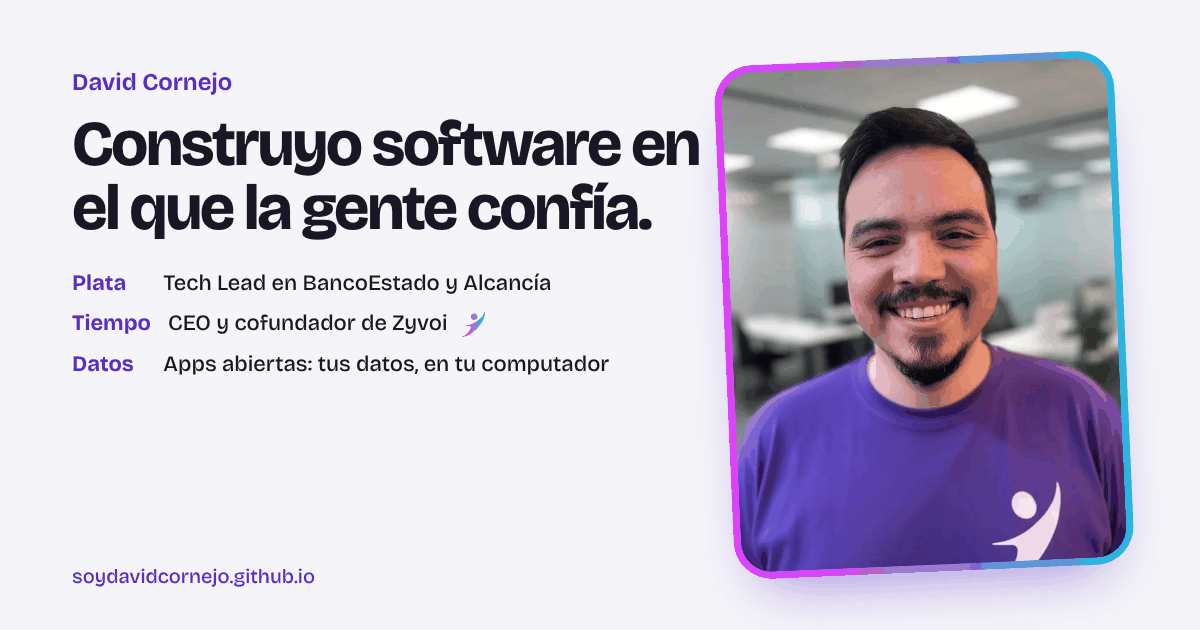
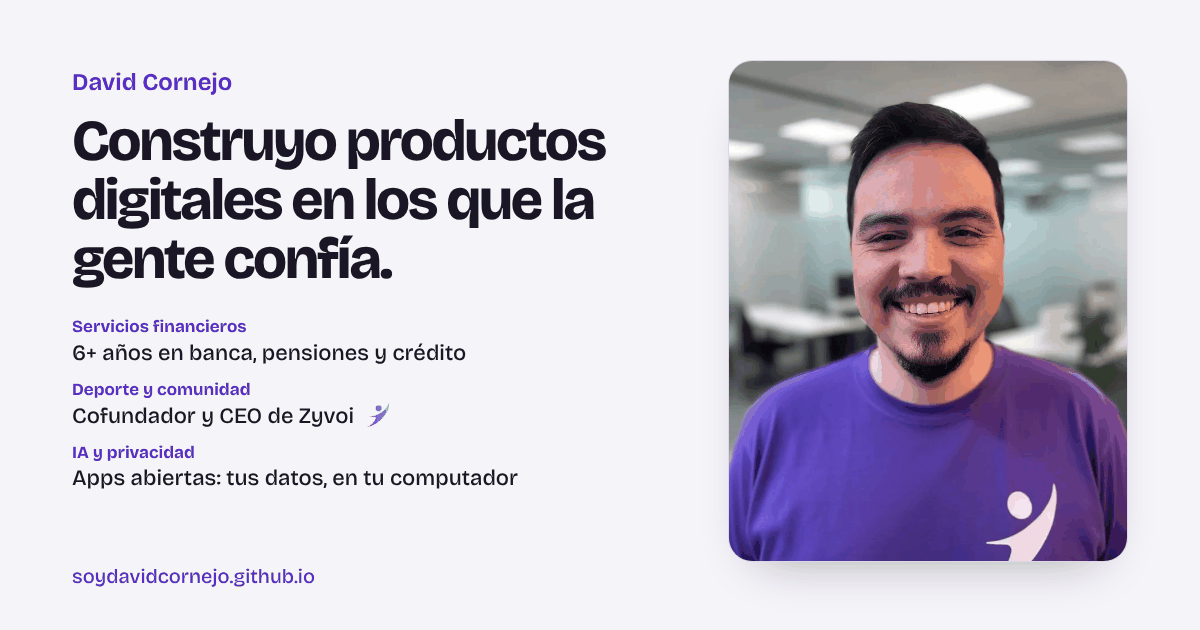
Página: productos en los que la gente confía, servicios financieros y logros por proyecto
Claude-Session: https://claude.ai/code/session_015WKzn5ezHz85iJiog5YX6w

Changed region(s): [[0.0617, 0.0603, 0.9558, 0.9651]]

diff --git a/index.html b/index.html
@@ -13,18 +13,18 @@
 <meta name="theme-color" content="#13111a" media="(prefers-color-scheme: dark)">
 <meta property="og:type" content="profile">
 <meta property="og:title" content="David Cornejo — Tech Lead y CEO de Zyvoi | AI engineering en Chile">
-<meta property="og:description" content="Construyo software en el que la gente confía: con su plata, su tiempo y sus datos. Tech Lead en BancoEstado, CEO y cofundador de Zyvoi y creador de cinco apps abiertas.">
+<meta property="og:description" content="Construyo productos digitales en los que la gente confía: más de 6 años en servicios financieros, cofundador y CEO de Zyvoi y creador de apps abiertas que dejan los datos de cada persona en su computador.">
 <meta property="og:url" content="https://soydavidcornejo.github.io/">
 <meta property="og:image" content="https://soydavidcornejo.github.io/img/compartir.png">
 <meta property="og:image:width" content="1200"><meta property="og:image:height" content="630">
-<meta property="og:image:alt" content="David Cornejo: construyo software en el que la gente confía, con su plata, su tiempo y sus datos">
+<meta property="og:image:alt" content="David Cornejo: construyo productos digitales en los que la gente confía">
 <meta property="og:locale" content="es_CL"><meta property="og:locale:alternate" content="en_US">
 <meta name="twitter:card" content="summary_large_image">
 <script type="application/ld+json">
 {"@context":"https://schema.org","@type":"Person","@id":"https://soydavidcornejo.github.io/#david",
  "name":"David Cornejo","givenName":"David","familyName":"Cornejo",
  "url":"https://soydavidcornejo.github.io/","image":"https://soydavidcornejo.github.io/img/david.jpg",
- "description":"Tech Lead y CEO y cofundador de Zyvoi. AI engineering en Chile: construyo software en el que la gente confía, con su plata, su tiempo y sus datos.",
+ "description":"Tech Lead y CEO y cofundador de Zyvoi. AI engineering en Chile: construyo productos digitales en los que la gente confía.",
  "jobTitle":["Tech Lead","CEO y cofundador de Zyvoi"],
  "worksFor":[{"@type":"Organization","name":"Zyvoi","url":"https://zyvoi.com","logo":"https://soydavidcornejo.github.io/img/zyvoi-logo.webp","founder":{"@id":"https://soydavidcornejo.github.io/#david"}},{"@type":"Organization","name":"BancoEstado"}],
  "alumniOf":{"@type":"CollegeOrUniversity","name":"INACAP"},
@@ -93,13 +93,14 @@ nav.secciones a:hover{color:var(--tinta)}
 @media (max-width:720px){.portada{grid-template-columns:minmax(0,1fr);gap:40px;padding:24px 0 40px}.retrato{order:-1}}
 .nombre{font:700 clamp(22px,2.2vw,26px)/1.1 var(--letra);letter-spacing:-.02em;margin:0}
 .ubicacion{margin:6px 0 28px;color:var(--suave);font-size:15.5px}
-h1.tesis{font:700 clamp(38px,5vw,64px)/1.04 var(--letra);letter-spacing:-.035em;margin:0 0 32px;max-width:14em;text-wrap:balance}
+h1.tesis{font:700 clamp(40px,5.4vw,70px)/1.03 var(--letra);letter-spacing:-.035em;margin:0 0 32px;max-width:12em;text-wrap:balance}
 .pruebas{margin:0 0 32px;max-width:38em}
-.pruebas div{display:grid;grid-template-columns:92px minmax(0,1fr);gap:4px 18px;padding:13px 0;border-top:1px solid var(--linea)}
+.pruebas div{display:grid;grid-template-columns:190px minmax(0,1fr);gap:4px 20px;padding:14px 0;border-top:1px solid var(--linea)}
 .pruebas div:last-child{border-bottom:1px solid var(--linea)}
 .pruebas dt{font:700 17px/1.45 var(--letra);color:var(--acento)}
 .pruebas dd{margin:0;font-size:17px;line-height:1.45}
-@media (max-width:480px){.pruebas div{grid-template-columns:70px minmax(0,1fr);gap:4px 12px}.pruebas dt,.pruebas dd{font-size:16px}}
+@media (max-width:900px){.pruebas div{grid-template-columns:minmax(0,1fr);gap:2px}}
+@media (max-width:480px){.pruebas dt,.pruebas dd{font-size:16px}}
 .bajada{font-size:clamp(17px,1.5vw,19px);line-height:1.6;color:var(--suave);max-width:36em;margin:0 0 30px}
 .acciones{display:flex;flex-wrap:wrap;gap:10px}
 .boton{display:inline-flex;align-items:center;gap:9px;min-height:48px;padding:0 22px;border-radius:999px;font:600 16px/1 var(--letra);text-decoration:none;border:1.5px solid var(--tinta);color:var(--tinta);background:transparent;cursor:pointer;transition:background-color .15s,color .15s,transform .12s,filter .15s}
@@ -118,6 +119,7 @@ h1.tesis{font:700 clamp(38px,5vw,64px)/1.04 var(--letra);letter-spacing:-.035em;
 
 /* He trabajado en (solo texto, sin logos de terceros) */
 .trabaje{margin:-40px 0 72px;display:flex;flex-wrap:wrap;align-items:baseline;gap:6px 26px;color:var(--suave);font-size:14.5px}
+.trabaje small{font-size:13px;font-weight:500;color:var(--suave);letter-spacing:0}
 .trabaje .empresas{font:650 17px/1.2 var(--letra);letter-spacing:-.01em;color:color-mix(in srgb,var(--tinta) 72%,var(--fondo))}
 
 /* Cómo es trabajar conmigo */
@@ -195,7 +197,7 @@ h3{text-wrap:balance}
 .zy-recintos p{margin:0;color:rgba(255,255,255,.76);font-size:15.5px}
 .zy-enlace{display:inline-block;margin-top:8px;font-weight:600;font-size:15px;color:#fff;text-decoration-color:rgba(255,255,255,.5)}
 .zy-enlace:hover{color:#fff;text-decoration-color:#fff}
-.zy-cifras{list-style:none;margin:0 0 28px;padding:18px 0 0;border-top:1px solid rgba(255,255,255,.18);display:grid;grid-template-columns:repeat(4,minmax(0,1fr));gap:16px 20px;max-width:40em}
+.zy-cifras{list-style:none;margin:0 0 28px;padding:18px 0 0;border-top:1px solid rgba(255,255,255,.18);display:grid;grid-template-columns:repeat(3,minmax(0,1fr));gap:18px 24px;max-width:36em}
 @media (max-width:560px){.zy-cifras{grid-template-columns:repeat(2,minmax(0,1fr))}}
 .zy-cifras li{display:flex;flex-direction:column;gap:3px;min-width:0}
 .zy-cifras b{font:700 18px/1.15 var(--letra);letter-spacing:-.015em}
@@ -437,11 +439,11 @@ footer p{margin:0}
     <div>
       <p class="nombre">David Cornejo</p>
       <p class="ubicacion" data-t="ubicacion">AI engineering en Santiago de Chile</p>
-      <h1 class="tesis" data-t="tesis">Construyo software en el que la gente confía: con su plata, su tiempo y sus datos.</h1>
+      <h1 class="tesis" data-t="tesis">Construyo productos digitales en los que la gente confía.</h1>
       <dl class="pruebas">
-        <div><dt data-t="pr_plata">Plata</dt><dd data-t="pr_plata_p">Tech Lead en BancoEstado, y creador de Alcancía para ordenar las finanzas de la casa.</dd></div>
-        <div><dt data-t="pr_tiempo">Tiempo</dt><dd data-t="pr_tiempo_p">CEO y cofundador de Zyvoi: que la gente juegue más y coordine menos.</dd></div>
-        <div><dt data-t="pr_datos">Datos</dt><dd data-t="pr_datos_p">Apps abiertas donde tus datos no salen de tu computador.</dd></div>
+        <div><dt data-t="pi1">Servicios financieros</dt><dd data-t="pi1p">Más de 6 años construyendo software para banca, pensiones y crédito: BancoEstado, AFP (en SONDA) y financiamiento automotriz en Tanner (vía Amaris Consulting).</dd></div>
+        <div><dt data-t="pi2">Deporte y comunidad</dt><dd data-t="pi2p">Cofundador y CEO de Zyvoi: que más gente juegue y coordine menos.</dd></div>
+        <div><dt data-t="pi3">IA y privacidad</dt><dd data-t="pi3p">Apps abiertas que usan la IA de cada persona y dejan sus datos en su computador.</dd></div>
       </dl>
       <div class="acciones">
         <a class="boton principal" href="#contacto" data-t="cta_hablar">Conversemos</a>
@@ -455,12 +457,12 @@ footer p{margin:0}
           </figure>
   </div>
   <ul class="hechos" aria-label="Hechos" data-t-aria="hechos">
-    <li><span class="valor" data-t="hc1v">12+ años</span><span class="dato" data-t="hc1p">construyendo y operando software</span></li>
-    <li><a class="valor" href="#zyvoi" data-t="hc2v">+200 jugadores</a><span class="dato" data-t="hc2p">registrados en Zyvoi</span></li>
-    <li><a class="valor" href="#zyvoi" data-t="hc3v">222 partidos jugados</a><span class="dato" data-t="hc3p">organizados con Zyvoi</span></li>
-    <li><a class="valor" href="https://github.com/soydavidcornejo" target="_blank" rel="noopener" data-t="hc4v">5 apps en 5 días</a><span class="dato" data-t="hc4p">abiertas, publicadas del 22 al 26 de octubre de 2026</span></li>
+    <li><span class="valor" data-t="hc1v">12+ años</span><span class="dato" data-t="hc1p">en tecnología</span></li>
+    <li><span class="valor" data-t="hc2v">6+ años</span><span class="dato" data-t="hc2p">en servicios financieros</span></li>
+    <li><span class="valor">Tech Lead</span><span class="dato" data-t="hc3p">de equipos de desarrollo</span></li>
+    <li><a class="valor" href="#zyvoi" data-t="hc4v">Cofundador y CEO</a><span class="dato" data-t="hc4p">de Zyvoi</span></li>
   </ul>
-  <p class="trabaje"><span data-t="trabaje">He trabajado en</span> <span class="empresas">BancoEstado</span> <span class="empresas">Vigalab · Codelco</span> <span class="empresas">SONDA</span> <span class="empresas">Amaris Consulting</span></p>
+  <p class="trabaje"><span data-t="trabaje">He trabajado en</span> <span class="empresas">BancoEstado</span> <span class="empresas">Codelco <small><span data-t="via">vía</span> Vigalab</small></span> <span class="empresas">Tanner <small><span data-t="via">vía</span> Amaris Consulting</small></span> <span class="empresas">SONDA</span></p>
 </div>
 
 <section id="ayuda" class="raya">
@@ -498,6 +500,8 @@ footer p{margin:0}
       <h2 id="zy-titulo" data-t="zy_h">Para que más gente juegue y se conozca a través del deporte.</h2>
       <p class="zy-bajada" data-t="z_p">Una app chilena para encontrar partidos, armar equipos y reservar canchas: fútbol, pádel, tenis, básquetbol y más.</p>
       <ul class="zy-cifras">
+        <li><b data-t="zc5v">+200</b><span data-t="zc5p">jugadores registrados</span></li>
+        <li><b>222</b><span data-t="zc6p">partidos jugados</span></li>
         <li><b data-t="zc1">Marzo 2026</b><span data-t="zc1p">lanzada en Chile, en iOS y Android</span></li>
         <li><b data-t="zc2">4 deportes</b><span data-t="zc2p">en 7 regiones de Chile</span></li>
         <li><b>Google for Startups</b><span data-t="zc3p">parte del programa Cloud</span></li>
@@ -561,7 +565,7 @@ footer p{margin:0}
       <div>
         <ol class="pasos">
           <li><h3 data-t="ps1">Parto de un problema real</h3><p data-t="ps1p">En la casa, en el trabajo o en la cancha: algo que a mí o a alguien cercano de verdad le hace falta.</p></li>
-          <li><h3 data-t="ps2">Lo construyo rápido y lo publico abierto</h3><p data-t="ps2p">Con agentes de IA llego en semanas a una versión que se puede usar, y la publico como código abierto.</p></li>
+          <li><h3 data-t="ps2">Lo construyo rápido y lo publico abierto</h3><p data-t="ps2p">Con agentes de IA llego rápido a una versión que se puede usar, con pruebas automáticas, y la publico como código abierto.</p></li>
           <li><h3 data-t="ps3">La gente lo usa, lo mejora y me dice qué falta</h3><p data-t="ps3p">Cada persona que lo usa lo pone a prueba, propone mejoras y muestra lo que todavía no resuelve.</p></li>
           <li><h3 data-t="ps4">Lo aprendido se aplica a escala</h3><p data-t="ps4p">Harness engineering, MCP y producto llegan a Zyvoi y a mi trabajo como Tech Lead, y eso revela nuevos problemas reales.</p></li>
         </ol>
@@ -628,7 +632,7 @@ footer p{margin:0}
   <div class="envoltura">
     <div class="cabeza">
       <h2 data-t="h_proy">Proyectos abiertos</h2>
-      <p data-t="p_proy">Herramientas que me hacían falta a mí y a mi familia. Las publico para que cualquiera las use, las revise y las mejore.</p>
+      <p data-t="p_proy">Cinco apps de código abierto para escritorio, con pruebas automáticas, revisión de privacidad en cada cambio y guías para agentes de IA.</p>
       <ul class="principios">
         <li data-t="pr_1">Gratis y sin cuentas</li><li data-t="pr_3">Tu propia IA</li><li data-t="pr_4">Español e inglés</li>
       </ul>
@@ -685,7 +689,7 @@ footer p{margin:0}
     </div>
     <ul class="modo">
       <li><h3 data-t="mo1">Primero entiendo el problema de negocio, después elijo la tecnología.</h3><p data-t="mo1p">Defino qué tiene que cambiar para el usuario y para el negocio; el stack se elige al servicio de eso.</p></li>
-      <li><h3 data-t="mo2">Entrego algo usable en días, no en meses.</h3><p data-t="mo2p">Versiones cortas que se pueden probar con usuarios reales desde el inicio.</p><a class="enlace-prueba" href="#proyectos" data-t="mo2e">Prueba: cinco apps publicadas del 22 al 26 de octubre</a></li>
+      <li><h3 data-t="mo2">Entrego temprano y en ciclos cortos.</h3><p data-t="mo2p">Versiones que se pueden probar con usuarios reales desde el inicio y que mejoran en cada ciclo.</p><a class="enlace-prueba" href="#proyectos" data-t="mo2e">Prueba: las versiones publicadas de las apps abiertas</a></li>
       <li><h3 data-t="mo3">Documento para que el equipo no dependa de mí.</h3><p data-t="mo3p">Cada proyecto tiene una guía única con reglas, arquitectura y cómo probar cada cambio.</p><span class="enlace-prueba"><span data-t="prueba">Prueba:</span> <a href="https://github.com/alcancia-app/alcancia/blob/main/AGENTS.md" target="_blank" rel="noopener">AGENTS.md · Alcancía</a>, <a href="https://github.com/minuta-app/minuta/blob/main/AGENTS.md" target="_blank" rel="noopener">AGENTS.md · Minuta</a></span></li>
       <li><h3 data-t="mo4">Seguridad y privacidad desde el día uno.</h3><p data-t="mo4p">Mínimo privilegio, secretos en el Llavero y agentes que revisan privacidad antes de cada cambio.</p><a class="enlace-prueba" href="https://github.com/alcancia-app/alcancia/tree/main/.claude/agents" target="_blank" rel="noopener" data-t="mo4e">Prueba: los agentes revisores de Alcancía</a></li>
     </ul>
@@ -703,7 +707,9 @@ footer p{margin:0}
       <li class="actual"><span class="cuando" data-t="t_be">2022 – hoy</span><div><h3>Tech Lead <span>· BancoEstado</span></h3><p data-t="t_be_p">Llegué a liderar un equipo de 3 desarrolladores.</p><p class="stack" data-t="t_be_stack">AWS, Salesforce, Node.js, NestJS, Next.js y más</p></div></li>
       <li><span class="cuando">2020 – 2021</span><div><h3>Tech Lead <span>· Vigalab</span></h3><p data-t="t_vi_p">Lideré CoWatch para Codelco: trazabilidad de contactos estrechos con IoT durante el COVID-19.</p>
         <p class="stack" data-sin-traducir>IoT, AWS</p></div></li>
-      <li><span class="cuando">2013 – 2020</span><div><h3 data-t="t_antes">Soporte, jefatura de TI y desarrollo full stack <span>· Adexus, Comercial IP, Incobech, Qanalytics, SONDA y Amaris (y Integ, 2022)</span></h3></div></li>
+      <li><span class="cuando">2019 – 2020</span><div><h3>Full Stack Developer <span>· Amaris Consulting</span></h3><p data-t="t_am_p">En Tanner: financiamiento automotriz.</p></div></li>
+      <li><span class="cuando">2018 – 2019</span><div><h3>Full Stack Developer <span>· SONDA</span></h3><p data-t="t_so_p">En el área de AFP.</p></div></li>
+      <li><span class="cuando">2013 – 2018</span><div><h3 data-t="t_antes">Soporte, jefatura de TI y desarrollo full stack <span>· Adexus, Comercial IP, Incobech y Qanalytics (y Integ, 2022)</span></h3></div></li>
     </ol>
   </div>
 </section>
@@ -775,7 +781,7 @@ footer p{margin:0}
   const EN = {
     h_trabajo: "What it's like to work with me",
     mo1: "I understand the business problem first, then choose the technology.", mo1p: "I define what has to change for the user and for the business; the stack is chosen to serve that.",
-    mo2: "I deliver something usable in days, not months.", mo2p: "Short releases that can be tested with real users from the start.", mo2e: "Proof: five apps published October 22–26",
+    mo2: "I deliver early and in short cycles.", mo2p: "Releases that real users can test from the start and that improve with every cycle.", mo2e: "Proof: the published releases of the open apps",
     mo3: "I document so the team doesn't depend on me.", mo3p: "Every project has a single guide with its rules, architecture and how to test each change.",
     mo4: "Security and privacy from day one.", mo4p: "Least privilege, secrets in the Keychain and agents that review privacy before every change.", mo4e: "Proof: Alcancía's review agents",
     ubicacion: "AI engineering in Santiago, Chile",
@@ -787,17 +793,20 @@ footer p{margin:0}
     of3: "Technical leadership of product teams", of3p: "Architecture, engineering practices and a team that delivers.", of3e: "Tech Lead at BancoEstado, with a team of 3 developers",
     saltar: "Skip to content", secciones: "Sections", tema: "Switch between light and dark mode",
     nav_estr: "Strategy", nav_metas: "Goals", nav_proy: "Projects", nav_tray: "Experience", nav_cont: "Contact",
-    tesis: "I build software people trust with their money, their time and their data.",
-    pr_plata: "Money", pr_plata_p: "Tech Lead at BancoEstado, and creator of Alcancía to put household finances in order.",
-    pr_tiempo: "Time", pr_tiempo_p: "CEO and co-founder of Zyvoi: so people play more and coordinate less.",
-    pr_datos: "Data", pr_datos_p: "Open apps where your data never leaves your computer.",
+    tesis: "I build digital products people trust.",
+    pi1: "Financial services", pi1p: "6+ years building software for banking, pensions and credit: BancoEstado, pension funds (AFP, at SONDA) and auto financing at Tanner (through Amaris Consulting).",
+    pi2: "Sport and community", pi2p: "Co-founder and CEO of Zyvoi: so more people play and coordinate less.",
+    pi3: "AI and privacy", pi3p: "Open apps that use each person's own AI and keep their data on their computer.",
     cta_hablar: "Let's talk", cta_zy: "Meet Zyvoi", cv: "Download CV",
     retrato_alt: "David Cornejo smiling, wearing a purple Zyvoi T-shirt",
     hechos: "Facts",
-    hc1v: "12+ years", hc1p: "building and running software",
-    hc2v: "200+ players", hc2p: "registered on Zyvoi",
-    hc3v: "222 games played", hc3p: "organized with Zyvoi",
-    hc4v: "5 apps in 5 days", hc4p: "open source, published October 22–26, 2026",
+    hc1v: "12+ years", hc1p: "in technology",
+    hc2v: "6+ years", hc2p: "in financial services",
+    hc3p: "of development teams",
+    hc4v: "Co-founder and CEO", hc4p: "of Zyvoi",
+    via: "via",
+    zc5v: "200+",
+    zc5p: "registered players", zc6p: "games played",
     zy_rol: "Co-founder and CEO since May 2025.",
     zy_h: "So more people play and get to know each other through sport.",
     z_p: "A Chilean app to find games, build teams and book courts: football, padel, tennis, basketball and more.",
@@ -818,7 +827,7 @@ footer p{margin:0}
     vo_e1: "Real problem", vo_e2: '<tspan x="470">Build</tspan><tspan x="470" dy="19">and open</tspan>',
     vo_e3: "Use and learning", vo_e4: '<tspan x="90">Apply</tspan><tspan x="90" dy="19">at scale</tspan>',
     ps1: "I start from a real problem", ps1p: "At home, at work or on the court: something I or someone close to me genuinely needs.",
-    ps2: "I build it fast and publish it in the open", ps2p: "With AI agents I reach a usable version in weeks, and I release it as open source.",
+    ps2: "I build it fast and publish it in the open", ps2p: "With AI agents I reach a usable version fast, with automated tests, and I release it as open source.",
     ps3: "People use it, improve it and tell me what's missing", ps3p: "Everyone who uses it puts it to the test, suggests improvements and shows what it doesn't solve yet.",
     ps4: "What I learn is applied at scale", ps4p: "Harness engineering, MCP and product reach Zyvoi and my work as a Tech Lead, and that reveals new real problems.",
     vo_cierre: "Every turn leaves behind a product, a community and something learned.",
@@ -845,7 +854,7 @@ footer p{margin:0}
     mt4_de: "Community", mt4: "Share what I learn about harness engineering",
     mt4p: "Publish openly how I work with agents: guides, templates and real examples from my projects.",
     mt4a: "Guides and templates published", mt4b: "People and teams reusing them", mt4c: "Questions and conversations they spark",
-    h_proy: "Open projects", p_proy: "Tools my family and I needed. I publish them so anyone can use, review and improve them.",
+    h_proy: "Open projects", p_proy: "Five open-source desktop apps, with automated tests, a privacy review on every change and guides for AI agents.",
     pr_1: "Free, no accounts", pr_3: "Your own AI", pr_4: "Spanish and English",
     minuta: "Leave every meeting with your notes ready and knowing how to communicate better.",
     graba: "Record your screen with your camera; your AI writes notes, a YouTube script, chapters and subtitles.",
@@ -857,7 +866,8 @@ footer p{margin:0}
     t_zy: "2025 – today", t_zy_h: "CEO & co-founder <span>· Zyvoi</span>", t_zy_p: "Strategy, product and growth of a sports community app built for Latin America.",
     t_be: "2022 – today", t_be_p: "I came to lead a team of 3 developers.", t_be_stack: "AWS, Salesforce, Node.js, NestJS, Next.js and more",
     t_vi_p: "Led CoWatch for Codelco: IoT-based close-contact tracing during COVID-19.",
-    t_antes: "Tech support, IT management and full-stack development <span>· Adexus, Comercial IP, Incobech, Qanalytics, SONDA and Amaris (plus Integ, 2022)</span>",
+    t_am_p: "At Tanner: auto financing.", t_so_p: "In the pension fund (AFP) area.",
+    t_antes: "Tech support, IT management and full-stack development <span>· Adexus, Comercial IP, Incobech and Qanalytics (plus Integ, 2022)</span>",
     h_est: "Education and certifications", e_tit: "Degree", e_h: "Computer Engineering",
     e_cert: "Selected certifications", c_1: "Advanced IT security", c_2: "Pentesting fundamentals", c_5: "Tech Sales Specialist 360",
     e_idi: "Languages", e_idi_v: "Native Spanish, professional English",
